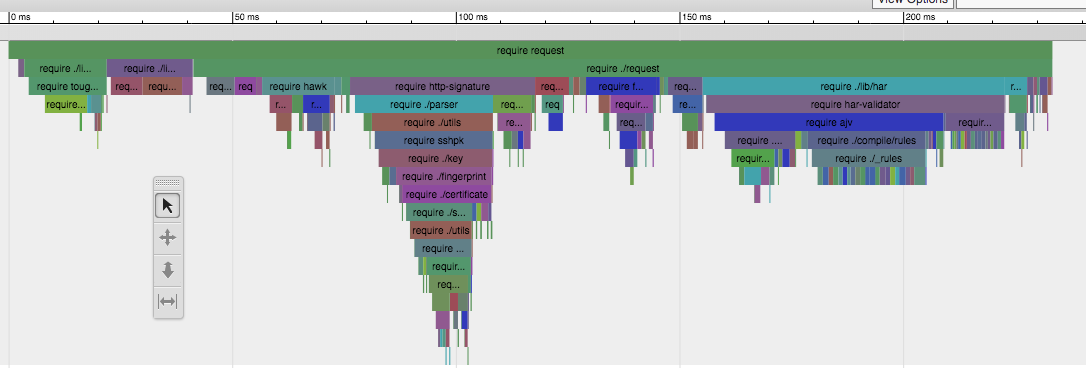
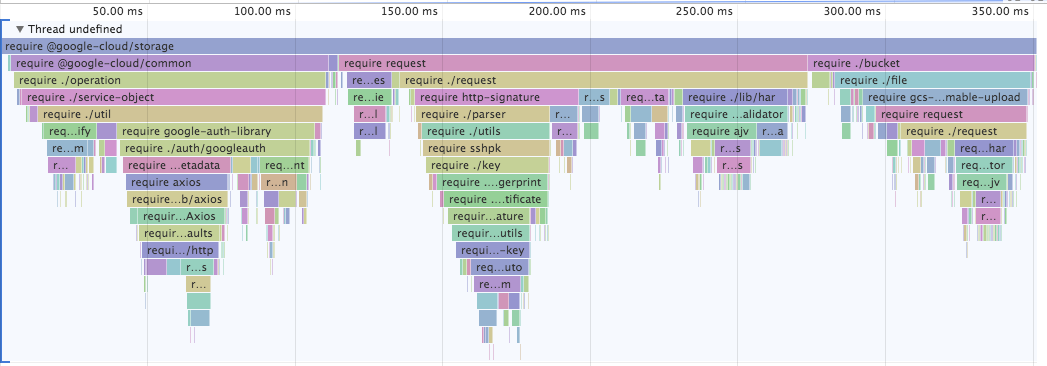
feat: ability to upload traces (#19)
BREAKING CHANGE: The CLI format has changed.

* `--upload` will now upload traces to a public tracing service.
* Refactor the options parsing code a little bit.

diff --git a/src/cli.ts b/src/cli.ts
@@ -3,33 +3,78 @@
 import {execSync} from 'child_process';
 import * as path from 'path';
 import * as shim from './shim';
-import npa from 'npm-package-arg';
-import up from 'update-notifier';
+import * as npa from 'npm-package-arg';
+import * as up from 'update-notifier';
+import * as meow from 'meow';
+import fetch from 'node-fetch';
+
 const pkg = require('../../package.json');
 up({pkg}).notify();
 
-const usage = `Parameters can be provided in the forms of:
+const cli = meow(
+    `
+Usage:
+  $ rss [flags] <module name or specifier>
+
+Flags:
+  -u, --upload             Upload the trace to a public trace hosting service.
+  -o, --output <filename>  Write output to the specified file name.
+
+Examples:
   $ rss googleapis
   $ rss googleapis@20
   $ rss googleapis@28.1.0
-  $ rss googleapis output.trace
-`;
+  $ rss -o file.trace googleapis
+  $ rss --upload request
+`,
+    {
+      autoHelp: true,
+      autoVersion: true,
+      flags: {
+        upload: {type: 'boolean', alias: 'u'},
+        output: {type: 'string', alias: 'o'}
+      }
+    });
 
-const args = process.argv.slice(2);
-if (args.length < 1) {
-  console.error(usage);
-  process.exit();
+if (cli.input.length !== 1) {
+  cli.showHelp(1);
+} else if (cli.flags.upload && cli.flags.output) {
+  console.error(
+      'Error: Only one of --upload/-u or --output/-o can be specified.');
+  cli.showHelp(2);
 }
 
-const mod = args[0];
-const parsed = npa(mod);
-const outputPath = args.length > 1 ? args[1] : `${parsed.escapedName}.trace`;
-const relativePath = path.relative(process.cwd(), outputPath);
+async function main() {
+  const mod = cli.input[0];
+  const parsed = npa(mod);
 
-execSync(`npm install --no-save ${mod}`, {stdio: 'inherit'});
+  execSync(`npm install --no-save ${mod}`, {stdio: 'inherit'});
 
-shim.createShim();
-require(parsed.name!);
-shim.write(outputPath);
+  shim.createShim();
+  require(parsed.name!);
 
-console.info(`✨ Trace data written to \`${relativePath}\` ✨`);
+  if (cli.flags.upload) {
+    if (!process.env.TRACE_SERVICE) {
+      throw new Error(
+          'Env. var. TRACE_SERVICE needs to be defined for upload to work.');
+    }
+    // TODO: give warning to the user about the public upload.
+    const events = shim.getAndClearEvents();
+    const result = await fetch(process.env.TRACE_SERVICE, {
+      method: 'POST',
+      body: JSON.stringify(events),
+      headers: {'Content-Type': 'application/json'}
+    });
+    const json: {view: string} = await result.json();
+    console.info(`✨ Trace data uploaded. View at ${json.view}.`);
+    // TODO: xdg-open the url.
+  } else {
+    const outputPath =
+        cli.flags.output ? cli.flags.output : `${parsed.escapedName}.trace`;
+    const relativePath = path.relative(process.cwd(), outputPath);
+    shim.write(outputPath);
+    console.info(`✨ Trace data written to \`${relativePath}\` ✨`);
+  }
+}
+
+main();

diff --git a/test/test-shim.ts b/test/test-shim.ts
@@ -2,7 +2,7 @@
 const MODULE = require('module');
 const ORIG_LOAD = MODULE._load;
 
-import test from 'tape';
+import * as test from 'tape';
 import * as shim from '../src/shim';
 import * as perfTrace from '../src/perf-trace';
 

diff --git a/src/shim.ts b/src/shim.ts
@@ -22,3 +22,7 @@ export function createShim() {
 export function write(path: string) {
   perfTrace.write(path);
 }
+
+export function getAndClearEvents(): perfTrace.Event[] {
+  return perfTrace.getAndClearEvents();
+}

diff --git a/README.md b/README.md
@@ -6,9 +6,29 @@
 * Wonder no more!
 
 This module produces a timeline of your `require`s and produces an output
-that you can load in the Chrome Trace Viewer.
+that you can load in the Chrome [Timeline Viewer][].
 
-![Trace Viewer](doc/trace.png)
+[![Trace Viewer](doc/trace.png)](https://chromedevtools.github.io/timeline-viewer/?loadTimelineFromURL=https://storage.googleapis.com/devtools-trace-public-bucket/painstaking-economic-purple-impolite-deadpan-Wolverine)
+
+Click on the image above to go see an interactive version.
+
+## Command Line Usage
+
+```shell
+# Profiles the timeline of requiring `request@latest` and generates a trace
+# output file you can load in Chrome Timeline viewer [1]
+$ npx require-so-slow request
+
+# You can specify specific versions or dist-tags.
+$ npx require-so-slow got@9.0.0
+$ npx require-so-slow got@rc
+
+# You can specify what output filename to use:
+$ npm require-so-slow -o lodash.trace.json lodash
+```
+
+
+## API
 
 ```js
 const requireSoSlow = require('require-so-slow');
@@ -20,6 +40,4 @@ require('request');
 requireSoSlow.write('require-trace.trace');
 ```
 
-You can open the trace file in [chrome://tracing](chrome://tracing) in Chrome.
-
-This projects uses the perf_trace.ts file from the https://github.com/bazelbuild/rules_typescript project to generate the chrome trace file. Going forward, Node 10+ will have an in-built mechanism to generate trace events from `perf_hooks`. Once that is readily available, this project can switch to that mechanism.
+[Timeline Viewer]: https://chromedevtools.github.io/timeline-viewer/
